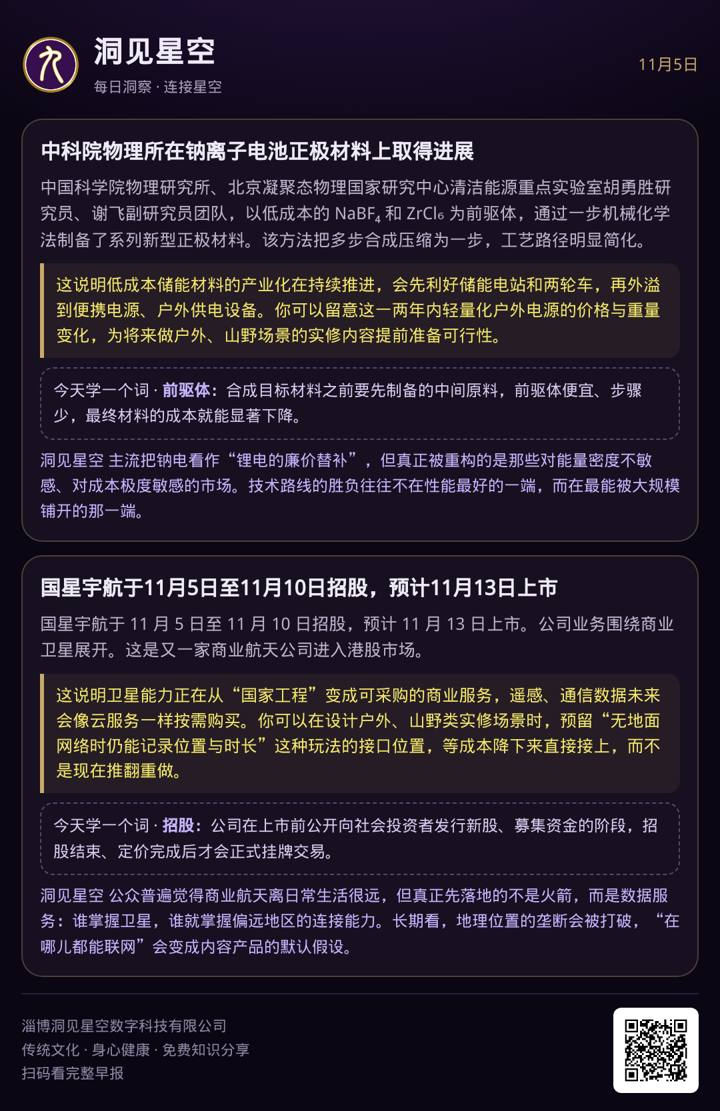
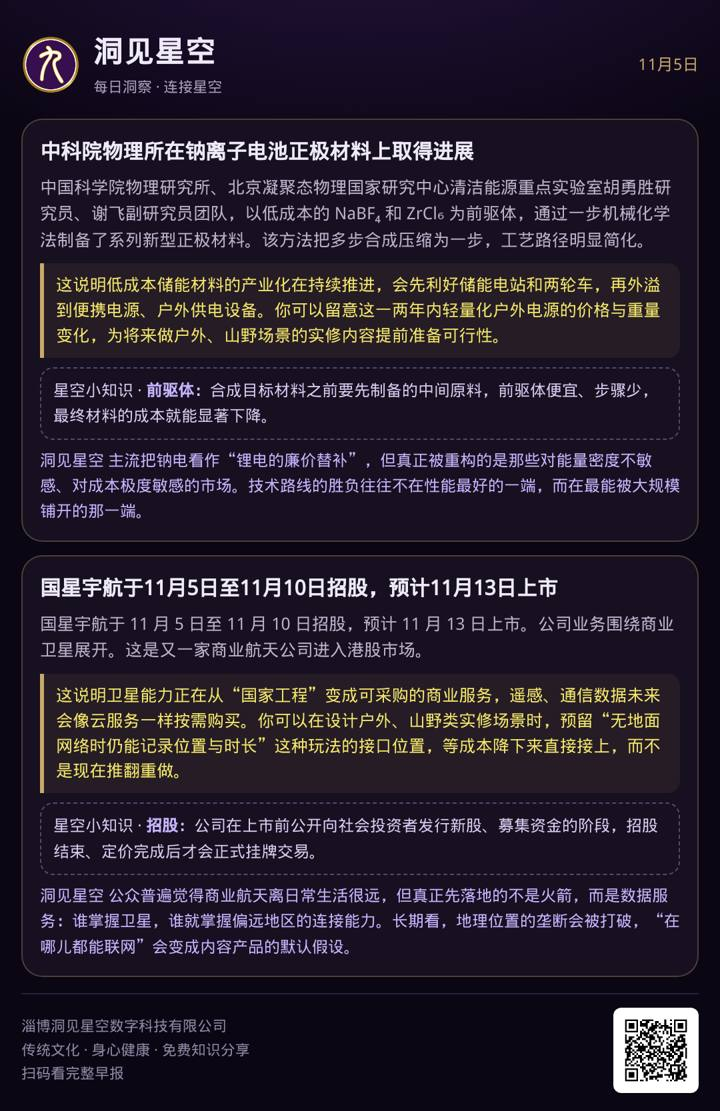
brief rename teach

Changed region(s): [[0.0611, 0.7345, 0.9167, 0.7957], [0.0611, 0.3366, 0.8861, 0.3978]]

diff --git a/2026-11-05.html b/2026-11-05.html
@@ -52,4 +52,4 @@ a{color:#b9a6ff;text-decoration:none}
 .teach{margin-top:10px;padding:10px 12px;border:1px dashed rgba(196,181,253,.35);border-radius:12px;font-size:13.5px;color:#d6ccf0}
 .teach b{color:var(--acc);font-weight:600}
 .foot{margin-top:44px;text-align:center;color:#5d5570;font-size:11px;letter-spacing:1.5px}
-</style></head><body><div class=grid></div><div class=wrap><div class=kicker>DONGJIAN · MORNING</div><div class=head><img class=logo src='logo.png' alt=logo><h1>洞见星空早报</h1></div><div class=sub>2026 年 11 月 5 日 · 星期四</div><h2>世界资讯 · 10</h2><div class=card><h3>OpenAI总裁称做好明年上市准备</h3><p>据新浪财经报道，OpenAI 总裁公开表示公司已经为明年上市做好准备。这是 OpenAI 高层首次就上市时间表给出相对明确的表态。此前 OpenAI 长期以非营利母体加有限营利子公司的架构运作，估值主要靠一级市场融资推高。消息出炉当日，市场对 AI 板块的定价讨论明显升温。</p><div class=why>大模型头部公司进入上市节奏，说明这一轮竞争已经从“谁的模型更强”转向“谁能把算力变成可持续的季度收入”，企业级合约会成为争夺重点。对单人创业者来说，面向个人的轻量工具会越来越标准化、越来越容易被替换，你该押注的是模型替代不了的部分：具体功法的纠错、师承来源和学员关系。</div><div class=teach>今天学一个词 · <b>IPO</b>：公司第一次把股票卖给公众，之后要在交易所挂牌、按季度公开财务数据。上市意味着它要对股东负责，而不只是对创始人和投资机构负责。</div><div class=insight><b>洞察</b> 主流叙事把头部 AI 公司上市当成泡沫见顶的信号，但更可能的长期含义是：AI 行业的定价权从“讲故事的一级市场”转移到“看财报的二级市场”，产品会更快涨价、更快收紧免费额度、更偏向能付得起钱的企业客户。个体创业者要习惯“工具条款半年一变”的常态。</div><div class=chips><a class='chip acc' href='https://finance.sina.com.cn/stock/usstock/c/2026-11-05/doc-inixryty5644886.shtml'>新浪财经</a></div></div><div class=card><h3>高盛称美国中期选举“蓝色海啸”将对人工智能监管产生重大影响</h3><p>高盛发布观点称，美国中期选举中出现的“蓝色海啸”将对人工智能监管走向产生重大影响。所谓蓝色海啸，指民主党在选举中获得压倒性优势。高盛认为立法与监管口径的变化会直接改变 AI 公司的合规成本与业务边界。市场正在重新评估监管风险在 AI 板块中的权重。</p><div class=why>美国监管口径趋严，会同时抬高两件事的价值：一是开源模型与本地部署方案，二是“可审计、可解释”的 AI 产品。你可以优先选能在本地或国内云上跑的工具链，把关键流程留一份不依赖单一海外服务的备份路径。</div><div class=teach>今天学一个词 · <b>蓝色海啸</b>：美国政治里蓝色代表民主党、红色代表共和党。“蓝色海啸”是媒体说法，指民主党在一场选举里赢得幅度大到像海啸一样。</div><div class=insight><b>洞察</b> 多数人默认“监管等于利空 AI”，但历史上强监管往往抬高合规门槛、利好大厂、挤出小玩家，同时把开源生态推到台前。真正的长期变化不是 AI 变慢，而是 AI 的权力结构更集中、合规本身变成一门生意。</div><div class=chips><a class='chip acc' href='https://finance.sina.com.cn/stock/usstock/c/2026-11-05/doc-inixryuh6202664.shtml'>新浪财经</a></div></div><div class=card><h3>全球首款全尺寸超仿生机器人亮相：售价16.98万，模样可定制</h3><p>新浪科技报道，全球首款全尺寸超仿生机器人亮相，售价 16.98 万元，外观模样可以定制。产品主打拟人外形与个性化形象，而非工业作业能力。这一价位把它放在商用展陈和高端陪伴的市场区间。</p><div class=why>这说明“形象、动作、语音脚本”的可定制内容正在成为机器人产品的卖点，而这类内容目前极度稀缺。你可以把自己的功法动作拆成标准的“动作包、讲解脚本、口令音频”，做成可授权给硬件厂商的内容模块，这是一条与录课卖课完全不同的收入路径。</div><div class=teach>今天学一个词 · <b>超仿生</b>：指外观、皮肤质感、面部表情对真人的模仿程度非常高，站远了看几乎分不出真假，和“能干活”是两码事。</div><div class=insight><b>洞察</b> 主流说法是“人形机器人即将走进家庭”，但 16.98 万的定价和展示型定位说明，短期内它更像展陈道具和 IP 载体。真正先起来的不是机器人干活，而是机器人“扮演谁”，也就是内容授权与形象授权。</div><div class=chips><a class='chip acc' href='https://finance.sina.com.cn/jjxw/2026-11-04/doc-inixqnsv7997130.shtml'>新浪科技</a></div></div><div class=card><h3>河北出台一揽子措施支持OPC创新发展</h3><p>中新网 11 月 5 日报道，河北出台一揽子措施支持 OPC 创新发展。OPC 即“一人公司”，指由一个自然人出资设立的公司形态。这是地方层面对单人创业主体给出的专项政策支持信号。</p><div class=why>这说明单人公司正在被当成一种正式的市场主体来对待，而不是过渡形态，围绕它的注册、财税、法务服务会形成一条新供应链。你可以去核对淄博本地以及河北这类先行地区对一人公司的具体扶持条款，看有没有内容产业、文创方向的申报窗口，这属于一次性查证、长期受益的动作。</div><div class=teach>今天学一个词 · <b>OPC（一人公司）</b>：One Person Company 的缩写，指股东只有一个自然人的公司。它和个体户不同，是有限责任公司，出了事一般只以出资额为限承担责任。</div><div class=insight><b>洞察</b> 主流的创业叙事仍然默认“招人、融资、做大”，但政策口径已经把一人公司纳入扶持对象，意味着未来几年会出现一批专门服务个体的基础设施：代记账、合规模板、AI 法务。真正被重构的不是创业门槛，而是“公司”这个概念本身。</div><div class=chips><a class='chip acc' href='https://www.chinanews.com.cn/cj/2026/11-05/10726400.shtml'>中新网财经</a></div></div><div class=card><h3>达成最高70亿美元对外授权，中生制药刷新BD交易记录</h3><p>新浪科技报道，中国生物制药达成最高 70 亿美元的对外授权交易，刷新国内 BD 交易纪录。交易对手方为勃林格殷格翰，双方在肿瘤领域强化战略合作。同日中国生物制药港股早盘涨超 5%。</p><div class=why>这说明“把一套方法或配方打包授权给更有渠道的一方”这条路在中国已经跑通，而且能卖出远高于零售的价格。传统文化领域同样可以试：把自己的功法体系、纠偏标准、教学大纲整理成可授权的 IP 包，谈给健身房、康养机构、内容平台，而不是只靠自己一节一节课去卖。</div><div class=teach>今天学一个词 · <b>BD / License-out</b>：BD 是商务拓展，License-out 指把自己产品的海外或特定权益授权给别人开发销售，收一笔首付款，之后按进展再收里程碑款和分成。</div><div class=insight><b>洞察</b> 媒体喜欢用 70 亿美元这样的标题数字，但对外授权通常是“首付款加里程碑付款”的结构，真正落袋的钱和标题差一个数量级。长期看，中国资产的定价权正在从“自己卖产品”转向“把权益卖给全球渠道”，这个逻辑对所有内容型 IP 都成立。</div><div class=chips><a class='chip acc' href='https://finance.sina.com.cn/tech/shenji/2026-11-05/doc-inixrumy8918859.shtml'>新浪科技</a></div></div><div class=card><h3>圈粉全球！国风国潮服饰海外热销，老外专程来抢货</h3><p>中新网报道，国风国潮服饰在海外热销，有外国消费者专程来中国抢货。报道把这一现象与近期海外的“China Haul”热潮并列观察。国潮服饰正在成为出口中的新增长品类之一。</p><div class=why>这说明海外对中国传统美学的需求，集中在“可穿戴、可拍照、可传播”的形态上，而不是长篇讲解。你可以顺势把功法内容往“视觉化、无语言门槛”的方向改：一个动作、一身衣服、一个场景，十几秒就能看懂，先解决传播再谈付费。</div><div class=teach>今天学一个词 · <b>国潮</b>：把中国传统纹样、形制、色彩做成现代商品和设计的风潮，核心卖点不是“古老”，而是“古老元素加现代使用场景”。</div><div class=insight><b>洞察</b> 大家习惯认为文化出海要靠大制作、靠官方渠道，但真正先跑出去的是衣服、饰品、器物这些可以被穿在身上、拍进照片的符号。符号的生命周期很短，靠单品爆红不可持续，能长期立住的是持续输出内容的那个人，而不是那一件衣服。</div><div class=chips><a class='chip acc' href='https://www.chinanews.com.cn/cj/2026/11-05/10726436.shtml'>中新网财经</a></div></div><div class=card><h3>“China Haul”背后，藏着怎样的中国？</h3><p>中新网刊文《“China Haul”背后，藏着怎样的中国？》，讨论海外消费者大量采购中国商品并在社交平台晒单的现象。文章认为这股热潮背后不只是价格，还有中国供应链与生活方式内容的同步输出。海外年轻人正把中国商品当成一种生活方式的符号。</p><div class=why>这说明海外平台对“中国人真实日常生活”的内容有持续需求，而且是生活流而不是教学流。你可以把练功、节气起居、饮食这类日常拍成系列短片，用生活记录的方式触达海外受众，比一上来就讲功法原理更容易被看懂和转发。</div><div class=teach>今天学一个词 · <b>Haul</b>：海外社交平台上的“扫货、开箱”视频类型，博主展示自己一次买了哪些东西、花了多少钱、值不值，常见于美妆和服饰。</div><div class=insight><b>洞察</b> 主流解读把 China Haul 归因于“性价比”，但性价比买不出狂热。真正被消费的是一整套生活想象，这也意味着它的天花板取决于内容能否持续供给。谁能在海外稳定输出“中国人怎么过日子”，谁就掌握了这个符号的解释权。</div><div class=chips><a class='chip acc' href='https://www.chinanews.com.cn/cj/2026/11-05/10726442.shtml'>中新网财经</a></div></div><div class=card><h3>QuestMobile报告：9月红果免费短剧月活跃用户规模达4.3亿，同比增长81.8%</h3><p>QuestMobile 报告显示，9 月红果免费短剧月活跃用户规模达到 4.3 亿，同比增长 81.8%。免费短剧成为过去一年增长最快的内容形态之一。同一份报告显示，腾讯以 12.8 亿用户蝉联中国互联网第一，绿泡泡月活破 1.5 亿。</p><div class=why>这说明用户对“一分钟内给出情绪或结果”的耐受度已经成为默认标准，超过三分钟还没有钩子的内容会被直接划走。你可以把 34 天挑战的每一天做成 60 秒竖屏单元：一个动作加一句话，用短剧的节奏承载功法内容，而不是依赖长音频。</div><div class=teach>今天学一个词 · <b>MAU（月活跃用户）</b>：一个月内打开过这个产品至少一次的用户数，用来衡量真实有多少人在用，比累计注册用户更能说明问题。</div><div class=insight><b>洞察</b> 很多人把短剧当成下沉娱乐，但 4.3 亿意味着它已经重塑了全年龄段的注意力节奏。长期看，所有内容都要先通过“三秒留人”这一关，教育类、修行类内容也不例外。真正的稀缺不是深度，而是能把深度压缩进短时长的能力。</div><div class=chips><a class='chip acc' href='https://finance.sina.com.cn/tech/it/2026-11-04/doc-inixqnsv7985057.shtml'>新浪科技</a></div></div><div class=card><h3>中科院物理所在钠离子电池正极材料上取得进展</h3><p>中国科学院物理研究所、北京凝聚态物理国家研究中心清洁能源重点实验室胡勇胜研究员、谢飞副研究员团队，以低成本的 NaBF₄ 和 ZrCl₆ 为前驱体，通过一步机械化学法制备了系列新型正极材料。该方法把多步合成压缩为一步，工艺路径明显简化。</p><div class=why>这说明低成本储能材料的产业化在持续推进，会先利好储能电站和两轮车，再外溢到便携电源、户外供电设备。你可以留意这一两年内轻量化户外电源的价格与重量变化，为将来做户外、山野场景的实修内容提前准备可行性。</div><div class=teach>今天学一个词 · <b>前驱体</b>：合成目标材料之前要先制备的中间原料，前驱体便宜、步骤少，最终材料的成本就能显著下降。</div><div class=insight><b>洞察</b> 主流把钠电看作“锂电的廉价替补”，但真正被重构的是那些对能量密度不敏感、对成本极度敏感的市场。技术路线的胜负往往不在性能最好的一端，而在最能被大规模铺开的那一端。</div><div class=chips><a class='chip acc' href='https://wallstreetcn.com/livenews/3194670'>华尔街见闻</a></div></div><div class=card><h3>国星宇航于11月5日至11月10日招股，预计11月13日上市</h3><p>国星宇航于 11 月 5 日至 11 月 10 日招股，预计 11 月 13 日上市。公司业务围绕商业卫星展开。这是又一家商业航天公司进入港股市场。</p><div class=why>这说明卫星能力正在从“国家工程”变成可采购的商业服务，遥感、通信数据未来会像云服务一样按需购买。你可以在设计户外、山野类实修场景时，预留“无地面网络时仍能记录位置与时长”这种玩法的接口位置，等成本降下来直接接上，而不是现在推翻重做。</div><div class=teach>今天学一个词 · <b>招股</b>：公司在上市前公开向社会投资者发行新股、募集资金的阶段，招股结束、定价完成后才会正式挂牌交易。</div><div class=insight><b>洞察</b> 公众普遍觉得商业航天离日常生活很远，但真正先落地的不是火箭，而是数据服务：谁掌握卫星，谁就掌握偏远地区的连接能力。长期看，地理位置的垄断会被打破，“在哪儿都能联网”会变成内容产品的默认假设。</div><div class=chips><a class='chip acc' href='https://finance.sina.com.cn/stock/hkstock/ggipo/2026-11-05/doc-inixrunh9650279.shtml'>新浪财经</a></div></div><h2>科技 · 9</h2><div class=card><h3>灵光2.0上线一周托管超116万项事务，用户突破2000万</h3><p>新浪科技报道，灵光 2.0 上线一周托管事务超过 116 万项，用户突破 2000 万。所谓“托管事务”，指用户把原本要自己动手做的事交给 AI 代理去执行。一周之内就沉淀出百万量级的真实执行数据。</p><div class=why>这说明通用型 AI 助手已经在大量承担“提醒、记录、统计、整理”这类事务性工作，这类功能会迅速变成免费标配。你要把力气放在 AI 判断不了的地方：动作做得对不对、身体反馈是否正常、什么时候该减量，这些才是需要专业经验的部分。</div><div class=teach>今天学一个词 · <b>托管事务</b>：不只是让 AI 给建议，而是把整件事交给它去执行，比如自动改期、自动填表、自动跟进，做完再给你结果。</div><div class=insight><b>洞察</b> 大多数人把 Agent 理解为“更聪明的聊天框”，但托管事务的量级说明竞争点已经变成“能不能可靠地把事做完”。可靠性的背后是权限、可回溯和出错兜底，这三样在未来一年会成为 AI 产品真正的分水岭。</div><div class=chips><a class='chip acc' href='https://finance.sina.com.cn/tech/shenji/2026-11-05/doc-inixryue9568010.shtml'>新浪科技</a></div></div><div class=card><h3>天数智芯天垓300真机实测：性能赶超国际主流GPU，超节点有效Token成本直降40%</h3><p>新浪科技报道，天数智芯天垓 300 完成真机实测，性能赶超国际主流 GPU，采用超节点方案后有效 Token 成本直降 40%。这是国产算力在推理侧的一次公开对比测试。测试重点是集群整体的有效吞吐，而不只是单卡跑分。</p><div class=why>这说明推理算力正在快速变便宜，实时动作识别、姿态比对这类重计算能力会在一年内进入可商用区间。你现在最该做的是攒数据：把标准动作的正面、侧面、常见错误姿势拍成结构化素材，等能力便宜了直接训练，而不是等工具成熟了再补素材。</div><div class=teach>今天学一个词 · <b>超节点</b>：把成百上千张加速卡用高速网络连成一台“超级电脑”来用，减少卡与卡之间的等待，整体效率比单卡堆叠高很多。</div><div class=insight><b>洞察</b> 主流把国产芯片的叙事锁定在“替代”，但超节点这类集群思路说明，追赶路径可能不是单卡追平，而是用系统架构换单点差距。如果这条路走通，算力的竞争会从“谁的芯片强”变成“谁的网络和调度强”。</div><div class=chips><a class='chip acc' href='https://finance.sina.com.cn/tech/it/2026-11-04/doc-inixqsyn9272244.shtml'>新浪科技</a></div></div><div class=card><h3>闲鱼CEO谌伟业：Agent创造新模式新体验，150万用户获得持续稳定收入</h3><p>闲鱼 CEO 谌伟业表示，Agent 创造了新的模式和新的体验，平台上有 150 万用户获得了持续稳定收入。这一数字把 AI 代理能力与个体创收直接挂钩。平台侧的表述强调“新体验”，而非单纯的效率工具。</p><div class=why>这说明“一技之长加 AI 代运营”已经能在平台上换成稳定现金流，门槛不在技术而在交付标准。你可以把功法教学拆成可单次交付的小服务——纠正一个动作、点评一次练习记录、给一份三天的调整建议——挂到有 Agent 撮合能力的平台上试水，比先做完整课程更快验证需求。</div><div class=teach>今天学一个词 · <b>Agent（智能体）</b>：能自己拆解任务、调用工具、一步步把事做完的 AI，不只是回答问题，还会主动去执行和跟进。</div><div class=insight><b>洞察</b> “AI 让人失业”是最流行的说法，但平台数据指向相反方向：AI 降低的是服务交付的门槛，让原本只能靠机构提供的专业服务，变成个人可以接单的小颗粒商品。长期看，被挤压的不是个体，而是中间层的中介机构。</div><div class=chips><a class='chip acc' href='https://finance.sina.com.cn/tech/it/2026-11-04/doc-inixqsyv0040255.shtml'>新浪科技</a></div></div><div class=card><h3>Sand.ai宣布完成2亿美元A+轮融资，10个月累计融资3亿美元</h3><p>Sand.ai 宣布完成 2 亿美元 A+ 轮融资，这是公司 2026 年内完成的第三轮融资。10 个月内累计融资额达到 3 亿美元，本轮融资后正式跻身独角兽行列。融资节奏在当下的资本环境中相当少见。</p><div class=why>这说明视频生成赛道的钱还在密集下注，资本押注的不是“能生成视频”，而是“生成的结果能直接用于商业交付”，也就是一致性和可控性。你可以先不等工具成熟：用手工拍摄为主、AI 只做补帧和背景替换，保住内容的真实质感，等可控性上来了再扩大使用比例。</div><div class=teach>今天学一个词 · <b>独角兽</b>：估值超过 10 亿美元的未上市公司，通常是投资圈的通俗说法，并不代表公司已经盈利或上市。</div><div class=insight><b>洞察</b> 外界普遍认为 AI 视频的创业窗口已经关闭，但十个月三轮融资说明离“能用”还有明显距离，否则不需要这么多钱。真正的护城河不在模型，而在谁能定义“合格交付”的标准——分辨率、时长、还是叙事连贯性。</div><div class=chips><a class='chip acc' href='https://wallstreetcn.com/livenews/3194682'>华尔街见闻</a></div></div><div class=card><h3>Arm季度营收展望符合预期，数据中心业务助其抵御智能手机市场低迷</h3><p>Arm 给出的季度营收展望符合市场预期，数据中心业务帮助它抵御了智能手机市场的低迷。Arm 的商业模式是授权芯片架构，收入与客户芯片出货量挂钩。数据中心需求成为这一季度的重要支撑项。</p><div class=why>这说明算力扩张的重心已经从手机转向服务器，连只做架构授权的上游公司都在被 AI 服务器重新定价。你可以在产品设计上默认“联网加云端推理是常态”，把需要重算力的功能放在服务端，而不是逼着用户在手机上跑。</div><div class=teach>今天学一个词 · <b>IP授权</b>：公司不自己造芯片，而是把设计方案的使用权卖给芯片厂商，按出货量收授权费，属于“卖图纸”的生意。</div><div class=insight><b>洞察</b> 大家习惯性认为消费电子决定芯片公司的命运，但这一季的数据说明服务器侧的需求已经能对冲手机的下滑。长期看，芯片产业的景气周期会和“数据中心建设周期”绑得越来越紧，而不是和换机潮绑在一起。</div><div class=chips><a class='chip acc' href='https://finance.sina.com.cn/stock/usstock/c/2026-11-05/doc-inixrqea8945717.shtml'>新浪科技</a></div></div><div class=card><h3>国行苹果AI首批接入得物，11月4日开放测试</h3><p>国行苹果 AI 首批接入得物，于 11 月 4 日开放测试。这意味着 Apple Intelligence 在国内以与具体 App 合作的方式落地。系统级 AI 直接调用第三方应用的能力，成为这次测试的核心看点。</p><div class=why>这说明未来用户可能不再“打开某个 App”，而是直接对手机说一句话让系统去调。你要提前把核心内容做成可被系统读取的结构化数据——动作名称、标准时长、要点、禁忌——而不只是做给人看的页面，否则在系统级入口里根本没有你的位置。</div><div class=teach>今天学一个词 · <b>系统级AI</b>：手机操作系统自带的 AI，能直接调用各个 App 的功能来完成任务，用户不用自己一个个打开应用。</div><div class=insight><b>洞察</b> 大家把 AI 手机当作硬件升级，但真正的变化是入口迁移：从图标和搜索框，迁移到一句话指令。一旦入口变了，过去十年靠 App 图标和推送建立的用户习惯会大面积失效，受益的是内容结构化做得早的人。</div><div class=chips><a class='chip acc' href='https://finance.sina.com.cn/tech/it/2026-11-04/doc-inixqnsq9346336.shtml'>新浪科技</a></div></div><div class=card><h3>字节新规限制员工使用外部AI，知情人士回应</h3><p>新浪科技报道，字节跳动出台新规限制员工使用外部 AI 工具，知情人士对此作出回应。此前已有多家大型互联网公司对内外部 AI 工具的使用划出明确边界。争议焦点集中在内部数据是否会经由外部工具外流。</p><div class=why>这说明“数据不出域”正在从合规要求变成采购硬门槛，企业宁可牺牲一点效率也不愿冒数据外流的风险。你做内容时如果会接触用户的练习记录、身体反馈这类数据，提前把存储位置、使用范围、删除方式写清楚，将来和机构谈合作时这就是现成的加分项。</div><div class=teach>今天学一个词 · <b>数据不出域</b>：数据始终留在自己控制的服务器范围内，不会被传到第三方那里去处理，是企业和机构采购 AI 时最看重的条件之一。</div><div class=insight><b>洞察</b> 外界默认 AI 工具会越来越开放，但大厂的动作说明相反：模型能力越强，数据边界划得越死。长期看，AI 行业会分裂成“公网版”和“私有部署版”两个市场，后者更贵、更慢，但更稳。</div><div class=chips><a class='chip acc' href='https://finance.sina.com.cn/chanjing/gsnews/2026-11-04/doc-inixqxhk9235629.shtml'>新浪科技</a></div></div><div class=card><h3>Meta启动欧元债券首次发行，此前发行美元债筹集150亿美元</h3><p>Meta 启动欧元债券的首次发行，此前已通过美元债券筹集 150 亿美元。公司称募集资金用于一般公司用途。市场普遍将其与数据中心和 AI 基础设施的巨额投入联系起来。</p><div class=why>这说明连现金流最强的公司都在靠发债支撑 AI 基建，算力供给在未来两三年会持续过剩。你可以把“AI 能力越来越便宜、越来越普及”当作产品设计的前提，把成本和精力都放在内容质量与人的关系上，而不是押注某项 AI 功能带来的先发优势。</div><div class=teach>今天学一个词 · <b>资本开支（CapEx）</b>：企业花在买设备、建机房、铺网络这类长期资产上的钱，一次投入大、回本周期长，和日常运营开销不是一回事。</div><div class=insight><b>洞察</b> 主流叙事是“AI 投入靠巨头自有现金流撑着”，但债券市场的动作说明这一轮资本开支已经超出经营现金流能覆盖的节奏。用债务堆出来的算力，最终要用收入来还，这会逼着所有玩家在未来两年把 AI 从“炫技”变成“收费”。</div><div class=chips><a class='chip acc' href='https://finance.sina.com.cn/stock/usstock/c/2026-11-04/doc-inixqhks9393709.shtml'>新浪科技</a></div></div><div class=card><h3>李斌乌镇演讲：AI应该让人的工作更轻松更安全，而不是剥夺人类存在的意义</h3><p>蔚来李斌在乌镇峰会上表示，AI 应该让人的工作更轻松、更安全，而不是剥夺人类存在的意义。同日他还谈到，智能驾驶最大的意义不应是让出租车、网约车司机丢掉工作，而是解放司机精力、减少交通事故。这番表态把技术价值从效率转向了人的处境。</p><div class=why>这说明“技术为人服务”正在成为企业公开表达的主流话语，纯效率叙事已经遇到明显的舆论反弹。你做传统文化内容时，把“练完之后身体感受如何、睡得怎么样”作为核心衡量指标来讲，会比强调功能、强调 AI 加持更贴合当下用户的心理预期。</div><div class=teach>今天学一个词 · <b>智能驾驶</b>：车辆自己完成一部分或全部驾驶操作，按自动化程度分级，级别越高需要人接管的次数越少，但责任划分也越复杂。</div><div class=insight><b>洞察</b> 过去十年科技行业的默认叙事是“更快更省人”，企业家如今公开谈“意义”，说明市场教育已经撞上反弹。长期看，能卖出溢价的产品会从“帮你省时间”转向“帮你确认自己在做什么”，这对慢生意是利好。</div><div class=chips><a class='chip acc' href='https://finance.sina.com.cn/tech/it/2026-11-04/doc-inixqnss6118846.shtml'>新浪科技</a></div></div><h2>开源项目 · 10</h2><div class=card><div class=repo><div><div class=n><a href='https://github.com/Renhuai123/ziwei-doushu'>Renhuai123/ziwei-doushu</a></div><div class=d>紫微斗数开源排盘引擎，基于倪海厦《天纪》体系，含完整排盘算法、四化系统、格局知识库与古籍原文数据。</div></div><div class=s>★ 15820</div></div><div class=repo><div><div class=n><a href='https://github.com/SylarLong/iztro'>SylarLong/iztro</a></div><div class=d>轻量级紫微斗数排盘工具库，供开发者在自己的项目里直接调用。</div></div><div class=s>★ 4346</div></div><div class=repo><div><div class=n><a href='https://github.com/jangviktor-web/nihaixia'>jangviktor-web/nihaixia</a></div><div class=d>倪海厦视角的中医 Agent Skill，基于其教学资料蒸馏伤寒论、金匮要略、黄帝内经、神农本草经、针灸篇等，含六经辨证、八纲辨证等思维框架。</div></div><div class=s>★ 3995</div></div><div class=repo><div><div class=n><a href='https://github.com/jinchenma94/bazi-skill'>jinchenma94/bazi-skill</a></div><div class=d>四柱八字命理分析的 AI Skill 实现，用 Python 写成。</div></div><div class=s>★ 3800</div></div><div class=repo><div><div class=n><a href='https://github.com/DestinyLinker/MingLi-Bench'>DestinyLinker/MingLi-Bench</a></div><div class=d>评估大模型在中国传统命理（八字、紫微）上表现的基准测试集。</div></div><div class=s>★ 2552</div></div><div class=repo><div><div class=n><a href='https://github.com/6tail/lunar-javascript'>6tail/lunar-javascript</a></div><div class=d>日历与历法工具库，支持公历、农历、佛历、道历，以及节气、干支、生肖、每日宜忌等。</div></div><div class=s>★ 1736</div></div><div class=repo><div><div class=n><a href='https://github.com/FANzR-arch/Numerologist_skills'>FANzR-arch/Numerologist_skills</a></div><div class=d>用工程框架约束大模型在中国命理领域幻觉的项目，作者自述是“给赛博半仙戴上紧箍咒”。</div></div><div class=s>★ 1567</div></div></div><div class=card><div class=repo><div class=n style='color:#c9a86a'>热门 · 不限分类</div></div><div class=repo><div><div class=n><a href='https://github.com/cirosantilli/x86-bare-metal-examples'>cirosantilli/x86-bare-metal-examples</a></div><div class=d>几十个最小可运行的操作系统示例，用来学习 x86 系统编程，每个例子都尽量精简可跑。</div></div><div class=s>★ 5434</div></div><div class=repo><div><div class=n><a href='https://github.com/gege-circle/.github'>gege-circle/.github</a></div><div class=d>一个以仓库为载体的多话题交流社区，讨论动漫、游戏、科技、人文、生活等。</div></div><div class=s>★ 2079</div></div><div class=repo><div><div class=n><a href='https://github.com/OCNYang/QBox'>OCNYang/QBox</a></div><div class=d>一个整合新闻、笑话、生活小工具的多模块 Android 示例应用，展示 RxJava、Retrofit、Glide 等技术的组合用法。</div></div><div class=s>★ 1383</div></div></div><div class=foot>洞见星空 · 仅供学习交流，不构成投资建议</div></div></body></html>
+</style></head><body><div class=grid></div><div class=wrap><div class=kicker>DONGJIAN · MORNING</div><div class=head><img class=logo src='logo.png' alt=logo><h1>洞见星空早报</h1></div><div class=sub>2026 年 11 月 5 日 · 星期四</div><h2>世界资讯 · 10</h2><div class=card><h3>OpenAI总裁称做好明年上市准备</h3><p>据新浪财经报道，OpenAI 总裁公开表示公司已经为明年上市做好准备。这是 OpenAI 高层首次就上市时间表给出相对明确的表态。此前 OpenAI 长期以非营利母体加有限营利子公司的架构运作，估值主要靠一级市场融资推高。消息出炉当日，市场对 AI 板块的定价讨论明显升温。</p><div class=why>大模型头部公司进入上市节奏，说明这一轮竞争已经从“谁的模型更强”转向“谁能把算力变成可持续的季度收入”，企业级合约会成为争夺重点。对单人创业者来说，面向个人的轻量工具会越来越标准化、越来越容易被替换，你该押注的是模型替代不了的部分：具体功法的纠错、师承来源和学员关系。</div><div class=teach>星空小知识 · <b>IPO</b>：公司第一次把股票卖给公众，之后要在交易所挂牌、按季度公开财务数据。上市意味着它要对股东负责，而不只是对创始人和投资机构负责。</div><div class=insight><b>洞察</b> 主流叙事把头部 AI 公司上市当成泡沫见顶的信号，但更可能的长期含义是：AI 行业的定价权从“讲故事的一级市场”转移到“看财报的二级市场”，产品会更快涨价、更快收紧免费额度、更偏向能付得起钱的企业客户。个体创业者要习惯“工具条款半年一变”的常态。</div><div class=chips><a class='chip acc' href='https://finance.sina.com.cn/stock/usstock/c/2026-11-05/doc-inixryty5644886.shtml'>新浪财经</a></div></div><div class=card><h3>高盛称美国中期选举“蓝色海啸”将对人工智能监管产生重大影响</h3><p>高盛发布观点称，美国中期选举中出现的“蓝色海啸”将对人工智能监管走向产生重大影响。所谓蓝色海啸，指民主党在选举中获得压倒性优势。高盛认为立法与监管口径的变化会直接改变 AI 公司的合规成本与业务边界。市场正在重新评估监管风险在 AI 板块中的权重。</p><div class=why>美国监管口径趋严，会同时抬高两件事的价值：一是开源模型与本地部署方案，二是“可审计、可解释”的 AI 产品。你可以优先选能在本地或国内云上跑的工具链，把关键流程留一份不依赖单一海外服务的备份路径。</div><div class=teach>星空小知识 · <b>蓝色海啸</b>：美国政治里蓝色代表民主党、红色代表共和党。“蓝色海啸”是媒体说法，指民主党在一场选举里赢得幅度大到像海啸一样。</div><div class=insight><b>洞察</b> 多数人默认“监管等于利空 AI”，但历史上强监管往往抬高合规门槛、利好大厂、挤出小玩家，同时把开源生态推到台前。真正的长期变化不是 AI 变慢，而是 AI 的权力结构更集中、合规本身变成一门生意。</div><div class=chips><a class='chip acc' href='https://finance.sina.com.cn/stock/usstock/c/2026-11-05/doc-inixryuh6202664.shtml'>新浪财经</a></div></div><div class=card><h3>全球首款全尺寸超仿生机器人亮相：售价16.98万，模样可定制</h3><p>新浪科技报道，全球首款全尺寸超仿生机器人亮相，售价 16.98 万元，外观模样可以定制。产品主打拟人外形与个性化形象，而非工业作业能力。这一价位把它放在商用展陈和高端陪伴的市场区间。</p><div class=why>这说明“形象、动作、语音脚本”的可定制内容正在成为机器人产品的卖点，而这类内容目前极度稀缺。你可以把自己的功法动作拆成标准的“动作包、讲解脚本、口令音频”，做成可授权给硬件厂商的内容模块，这是一条与录课卖课完全不同的收入路径。</div><div class=teach>星空小知识 · <b>超仿生</b>：指外观、皮肤质感、面部表情对真人的模仿程度非常高，站远了看几乎分不出真假，和“能干活”是两码事。</div><div class=insight><b>洞察</b> 主流说法是“人形机器人即将走进家庭”，但 16.98 万的定价和展示型定位说明，短期内它更像展陈道具和 IP 载体。真正先起来的不是机器人干活，而是机器人“扮演谁”，也就是内容授权与形象授权。</div><div class=chips><a class='chip acc' href='https://finance.sina.com.cn/jjxw/2026-11-04/doc-inixqnsv7997130.shtml'>新浪科技</a></div></div><div class=card><h3>河北出台一揽子措施支持OPC创新发展</h3><p>中新网 11 月 5 日报道，河北出台一揽子措施支持 OPC 创新发展。OPC 即“一人公司”，指由一个自然人出资设立的公司形态。这是地方层面对单人创业主体给出的专项政策支持信号。</p><div class=why>这说明单人公司正在被当成一种正式的市场主体来对待，而不是过渡形态，围绕它的注册、财税、法务服务会形成一条新供应链。你可以去核对淄博本地以及河北这类先行地区对一人公司的具体扶持条款，看有没有内容产业、文创方向的申报窗口，这属于一次性查证、长期受益的动作。</div><div class=teach>星空小知识 · <b>OPC（一人公司）</b>：One Person Company 的缩写，指股东只有一个自然人的公司。它和个体户不同，是有限责任公司，出了事一般只以出资额为限承担责任。</div><div class=insight><b>洞察</b> 主流的创业叙事仍然默认“招人、融资、做大”，但政策口径已经把一人公司纳入扶持对象，意味着未来几年会出现一批专门服务个体的基础设施：代记账、合规模板、AI 法务。真正被重构的不是创业门槛，而是“公司”这个概念本身。</div><div class=chips><a class='chip acc' href='https://www.chinanews.com.cn/cj/2026/11-05/10726400.shtml'>中新网财经</a></div></div><div class=card><h3>达成最高70亿美元对外授权，中生制药刷新BD交易记录</h3><p>新浪科技报道，中国生物制药达成最高 70 亿美元的对外授权交易，刷新国内 BD 交易纪录。交易对手方为勃林格殷格翰，双方在肿瘤领域强化战略合作。同日中国生物制药港股早盘涨超 5%。</p><div class=why>这说明“把一套方法或配方打包授权给更有渠道的一方”这条路在中国已经跑通，而且能卖出远高于零售的价格。传统文化领域同样可以试：把自己的功法体系、纠偏标准、教学大纲整理成可授权的 IP 包，谈给健身房、康养机构、内容平台，而不是只靠自己一节一节课去卖。</div><div class=teach>星空小知识 · <b>BD / License-out</b>：BD 是商务拓展，License-out 指把自己产品的海外或特定权益授权给别人开发销售，收一笔首付款，之后按进展再收里程碑款和分成。</div><div class=insight><b>洞察</b> 媒体喜欢用 70 亿美元这样的标题数字，但对外授权通常是“首付款加里程碑付款”的结构，真正落袋的钱和标题差一个数量级。长期看，中国资产的定价权正在从“自己卖产品”转向“把权益卖给全球渠道”，这个逻辑对所有内容型 IP 都成立。</div><div class=chips><a class='chip acc' href='https://finance.sina.com.cn/tech/shenji/2026-11-05/doc-inixrumy8918859.shtml'>新浪科技</a></div></div><div class=card><h3>圈粉全球！国风国潮服饰海外热销，老外专程来抢货</h3><p>中新网报道，国风国潮服饰在海外热销，有外国消费者专程来中国抢货。报道把这一现象与近期海外的“China Haul”热潮并列观察。国潮服饰正在成为出口中的新增长品类之一。</p><div class=why>这说明海外对中国传统美学的需求，集中在“可穿戴、可拍照、可传播”的形态上，而不是长篇讲解。你可以顺势把功法内容往“视觉化、无语言门槛”的方向改：一个动作、一身衣服、一个场景，十几秒就能看懂，先解决传播再谈付费。</div><div class=teach>星空小知识 · <b>国潮</b>：把中国传统纹样、形制、色彩做成现代商品和设计的风潮，核心卖点不是“古老”，而是“古老元素加现代使用场景”。</div><div class=insight><b>洞察</b> 大家习惯认为文化出海要靠大制作、靠官方渠道，但真正先跑出去的是衣服、饰品、器物这些可以被穿在身上、拍进照片的符号。符号的生命周期很短，靠单品爆红不可持续，能长期立住的是持续输出内容的那个人，而不是那一件衣服。</div><div class=chips><a class='chip acc' href='https://www.chinanews.com.cn/cj/2026/11-05/10726436.shtml'>中新网财经</a></div></div><div class=card><h3>“China Haul”背后，藏着怎样的中国？</h3><p>中新网刊文《“China Haul”背后，藏着怎样的中国？》，讨论海外消费者大量采购中国商品并在社交平台晒单的现象。文章认为这股热潮背后不只是价格，还有中国供应链与生活方式内容的同步输出。海外年轻人正把中国商品当成一种生活方式的符号。</p><div class=why>这说明海外平台对“中国人真实日常生活”的内容有持续需求，而且是生活流而不是教学流。你可以把练功、节气起居、饮食这类日常拍成系列短片，用生活记录的方式触达海外受众，比一上来就讲功法原理更容易被看懂和转发。</div><div class=teach>星空小知识 · <b>Haul</b>：海外社交平台上的“扫货、开箱”视频类型，博主展示自己一次买了哪些东西、花了多少钱、值不值，常见于美妆和服饰。</div><div class=insight><b>洞察</b> 主流解读把 China Haul 归因于“性价比”，但性价比买不出狂热。真正被消费的是一整套生活想象，这也意味着它的天花板取决于内容能否持续供给。谁能在海外稳定输出“中国人怎么过日子”，谁就掌握了这个符号的解释权。</div><div class=chips><a class='chip acc' href='https://www.chinanews.com.cn/cj/2026/11-05/10726442.shtml'>中新网财经</a></div></div><div class=card><h3>QuestMobile报告：9月红果免费短剧月活跃用户规模达4.3亿，同比增长81.8%</h3><p>QuestMobile 报告显示，9 月红果免费短剧月活跃用户规模达到 4.3 亿，同比增长 81.8%。免费短剧成为过去一年增长最快的内容形态之一。同一份报告显示，腾讯以 12.8 亿用户蝉联中国互联网第一，绿泡泡月活破 1.5 亿。</p><div class=why>这说明用户对“一分钟内给出情绪或结果”的耐受度已经成为默认标准，超过三分钟还没有钩子的内容会被直接划走。你可以把 34 天挑战的每一天做成 60 秒竖屏单元：一个动作加一句话，用短剧的节奏承载功法内容，而不是依赖长音频。</div><div class=teach>星空小知识 · <b>MAU（月活跃用户）</b>：一个月内打开过这个产品至少一次的用户数，用来衡量真实有多少人在用，比累计注册用户更能说明问题。</div><div class=insight><b>洞察</b> 很多人把短剧当成下沉娱乐，但 4.3 亿意味着它已经重塑了全年龄段的注意力节奏。长期看，所有内容都要先通过“三秒留人”这一关，教育类、修行类内容也不例外。真正的稀缺不是深度，而是能把深度压缩进短时长的能力。</div><div class=chips><a class='chip acc' href='https://finance.sina.com.cn/tech/it/2026-11-04/doc-inixqnsv7985057.shtml'>新浪科技</a></div></div><div class=card><h3>中科院物理所在钠离子电池正极材料上取得进展</h3><p>中国科学院物理研究所、北京凝聚态物理国家研究中心清洁能源重点实验室胡勇胜研究员、谢飞副研究员团队，以低成本的 NaBF₄ 和 ZrCl₆ 为前驱体，通过一步机械化学法制备了系列新型正极材料。该方法把多步合成压缩为一步，工艺路径明显简化。</p><div class=why>这说明低成本储能材料的产业化在持续推进，会先利好储能电站和两轮车，再外溢到便携电源、户外供电设备。你可以留意这一两年内轻量化户外电源的价格与重量变化，为将来做户外、山野场景的实修内容提前准备可行性。</div><div class=teach>星空小知识 · <b>前驱体</b>：合成目标材料之前要先制备的中间原料，前驱体便宜、步骤少，最终材料的成本就能显著下降。</div><div class=insight><b>洞察</b> 主流把钠电看作“锂电的廉价替补”，但真正被重构的是那些对能量密度不敏感、对成本极度敏感的市场。技术路线的胜负往往不在性能最好的一端，而在最能被大规模铺开的那一端。</div><div class=chips><a class='chip acc' href='https://wallstreetcn.com/livenews/3194670'>华尔街见闻</a></div></div><div class=card><h3>国星宇航于11月5日至11月10日招股，预计11月13日上市</h3><p>国星宇航于 11 月 5 日至 11 月 10 日招股，预计 11 月 13 日上市。公司业务围绕商业卫星展开。这是又一家商业航天公司进入港股市场。</p><div class=why>这说明卫星能力正在从“国家工程”变成可采购的商业服务，遥感、通信数据未来会像云服务一样按需购买。你可以在设计户外、山野类实修场景时，预留“无地面网络时仍能记录位置与时长”这种玩法的接口位置，等成本降下来直接接上，而不是现在推翻重做。</div><div class=teach>星空小知识 · <b>招股</b>：公司在上市前公开向社会投资者发行新股、募集资金的阶段，招股结束、定价完成后才会正式挂牌交易。</div><div class=insight><b>洞察</b> 公众普遍觉得商业航天离日常生活很远，但真正先落地的不是火箭，而是数据服务：谁掌握卫星，谁就掌握偏远地区的连接能力。长期看，地理位置的垄断会被打破，“在哪儿都能联网”会变成内容产品的默认假设。</div><div class=chips><a class='chip acc' href='https://finance.sina.com.cn/stock/hkstock/ggipo/2026-11-05/doc-inixrunh9650279.shtml'>新浪财经</a></div></div><h2>科技 · 9</h2><div class=card><h3>灵光2.0上线一周托管超116万项事务，用户突破2000万</h3><p>新浪科技报道，灵光 2.0 上线一周托管事务超过 116 万项，用户突破 2000 万。所谓“托管事务”，指用户把原本要自己动手做的事交给 AI 代理去执行。一周之内就沉淀出百万量级的真实执行数据。</p><div class=why>这说明通用型 AI 助手已经在大量承担“提醒、记录、统计、整理”这类事务性工作，这类功能会迅速变成免费标配。你要把力气放在 AI 判断不了的地方：动作做得对不对、身体反馈是否正常、什么时候该减量，这些才是需要专业经验的部分。</div><div class=teach>星空小知识 · <b>托管事务</b>：不只是让 AI 给建议，而是把整件事交给它去执行，比如自动改期、自动填表、自动跟进，做完再给你结果。</div><div class=insight><b>洞察</b> 大多数人把 Agent 理解为“更聪明的聊天框”，但托管事务的量级说明竞争点已经变成“能不能可靠地把事做完”。可靠性的背后是权限、可回溯和出错兜底，这三样在未来一年会成为 AI 产品真正的分水岭。</div><div class=chips><a class='chip acc' href='https://finance.sina.com.cn/tech/shenji/2026-11-05/doc-inixryue9568010.shtml'>新浪科技</a></div></div><div class=card><h3>天数智芯天垓300真机实测：性能赶超国际主流GPU，超节点有效Token成本直降40%</h3><p>新浪科技报道，天数智芯天垓 300 完成真机实测，性能赶超国际主流 GPU，采用超节点方案后有效 Token 成本直降 40%。这是国产算力在推理侧的一次公开对比测试。测试重点是集群整体的有效吞吐，而不只是单卡跑分。</p><div class=why>这说明推理算力正在快速变便宜，实时动作识别、姿态比对这类重计算能力会在一年内进入可商用区间。你现在最该做的是攒数据：把标准动作的正面、侧面、常见错误姿势拍成结构化素材，等能力便宜了直接训练，而不是等工具成熟了再补素材。</div><div class=teach>星空小知识 · <b>超节点</b>：把成百上千张加速卡用高速网络连成一台“超级电脑”来用，减少卡与卡之间的等待，整体效率比单卡堆叠高很多。</div><div class=insight><b>洞察</b> 主流把国产芯片的叙事锁定在“替代”，但超节点这类集群思路说明，追赶路径可能不是单卡追平，而是用系统架构换单点差距。如果这条路走通，算力的竞争会从“谁的芯片强”变成“谁的网络和调度强”。</div><div class=chips><a class='chip acc' href='https://finance.sina.com.cn/tech/it/2026-11-04/doc-inixqsyn9272244.shtml'>新浪科技</a></div></div><div class=card><h3>闲鱼CEO谌伟业：Agent创造新模式新体验，150万用户获得持续稳定收入</h3><p>闲鱼 CEO 谌伟业表示，Agent 创造了新的模式和新的体验，平台上有 150 万用户获得了持续稳定收入。这一数字把 AI 代理能力与个体创收直接挂钩。平台侧的表述强调“新体验”，而非单纯的效率工具。</p><div class=why>这说明“一技之长加 AI 代运营”已经能在平台上换成稳定现金流，门槛不在技术而在交付标准。你可以把功法教学拆成可单次交付的小服务——纠正一个动作、点评一次练习记录、给一份三天的调整建议——挂到有 Agent 撮合能力的平台上试水，比先做完整课程更快验证需求。</div><div class=teach>星空小知识 · <b>Agent（智能体）</b>：能自己拆解任务、调用工具、一步步把事做完的 AI，不只是回答问题，还会主动去执行和跟进。</div><div class=insight><b>洞察</b> “AI 让人失业”是最流行的说法，但平台数据指向相反方向：AI 降低的是服务交付的门槛，让原本只能靠机构提供的专业服务，变成个人可以接单的小颗粒商品。长期看，被挤压的不是个体，而是中间层的中介机构。</div><div class=chips><a class='chip acc' href='https://finance.sina.com.cn/tech/it/2026-11-04/doc-inixqsyv0040255.shtml'>新浪科技</a></div></div><div class=card><h3>Sand.ai宣布完成2亿美元A+轮融资，10个月累计融资3亿美元</h3><p>Sand.ai 宣布完成 2 亿美元 A+ 轮融资，这是公司 2026 年内完成的第三轮融资。10 个月内累计融资额达到 3 亿美元，本轮融资后正式跻身独角兽行列。融资节奏在当下的资本环境中相当少见。</p><div class=why>这说明视频生成赛道的钱还在密集下注，资本押注的不是“能生成视频”，而是“生成的结果能直接用于商业交付”，也就是一致性和可控性。你可以先不等工具成熟：用手工拍摄为主、AI 只做补帧和背景替换，保住内容的真实质感，等可控性上来了再扩大使用比例。</div><div class=teach>星空小知识 · <b>独角兽</b>：估值超过 10 亿美元的未上市公司，通常是投资圈的通俗说法，并不代表公司已经盈利或上市。</div><div class=insight><b>洞察</b> 外界普遍认为 AI 视频的创业窗口已经关闭，但十个月三轮融资说明离“能用”还有明显距离，否则不需要这么多钱。真正的护城河不在模型，而在谁能定义“合格交付”的标准——分辨率、时长、还是叙事连贯性。</div><div class=chips><a class='chip acc' href='https://wallstreetcn.com/livenews/3194682'>华尔街见闻</a></div></div><div class=card><h3>Arm季度营收展望符合预期，数据中心业务助其抵御智能手机市场低迷</h3><p>Arm 给出的季度营收展望符合市场预期，数据中心业务帮助它抵御了智能手机市场的低迷。Arm 的商业模式是授权芯片架构，收入与客户芯片出货量挂钩。数据中心需求成为这一季度的重要支撑项。</p><div class=why>这说明算力扩张的重心已经从手机转向服务器，连只做架构授权的上游公司都在被 AI 服务器重新定价。你可以在产品设计上默认“联网加云端推理是常态”，把需要重算力的功能放在服务端，而不是逼着用户在手机上跑。</div><div class=teach>星空小知识 · <b>IP授权</b>：公司不自己造芯片，而是把设计方案的使用权卖给芯片厂商，按出货量收授权费，属于“卖图纸”的生意。</div><div class=insight><b>洞察</b> 大家习惯性认为消费电子决定芯片公司的命运，但这一季的数据说明服务器侧的需求已经能对冲手机的下滑。长期看，芯片产业的景气周期会和“数据中心建设周期”绑得越来越紧，而不是和换机潮绑在一起。</div><div class=chips><a class='chip acc' href='https://finance.sina.com.cn/stock/usstock/c/2026-11-05/doc-inixrqea8945717.shtml'>新浪科技</a></div></div><div class=card><h3>国行苹果AI首批接入得物，11月4日开放测试</h3><p>国行苹果 AI 首批接入得物，于 11 月 4 日开放测试。这意味着 Apple Intelligence 在国内以与具体 App 合作的方式落地。系统级 AI 直接调用第三方应用的能力，成为这次测试的核心看点。</p><div class=why>这说明未来用户可能不再“打开某个 App”，而是直接对手机说一句话让系统去调。你要提前把核心内容做成可被系统读取的结构化数据——动作名称、标准时长、要点、禁忌——而不只是做给人看的页面，否则在系统级入口里根本没有你的位置。</div><div class=teach>星空小知识 · <b>系统级AI</b>：手机操作系统自带的 AI，能直接调用各个 App 的功能来完成任务，用户不用自己一个个打开应用。</div><div class=insight><b>洞察</b> 大家把 AI 手机当作硬件升级，但真正的变化是入口迁移：从图标和搜索框，迁移到一句话指令。一旦入口变了，过去十年靠 App 图标和推送建立的用户习惯会大面积失效，受益的是内容结构化做得早的人。</div><div class=chips><a class='chip acc' href='https://finance.sina.com.cn/tech/it/2026-11-04/doc-inixqnsq9346336.shtml'>新浪科技</a></div></div><div class=card><h3>字节新规限制员工使用外部AI，知情人士回应</h3><p>新浪科技报道，字节跳动出台新规限制员工使用外部 AI 工具，知情人士对此作出回应。此前已有多家大型互联网公司对内外部 AI 工具的使用划出明确边界。争议焦点集中在内部数据是否会经由外部工具外流。</p><div class=why>这说明“数据不出域”正在从合规要求变成采购硬门槛，企业宁可牺牲一点效率也不愿冒数据外流的风险。你做内容时如果会接触用户的练习记录、身体反馈这类数据，提前把存储位置、使用范围、删除方式写清楚，将来和机构谈合作时这就是现成的加分项。</div><div class=teach>星空小知识 · <b>数据不出域</b>：数据始终留在自己控制的服务器范围内，不会被传到第三方那里去处理，是企业和机构采购 AI 时最看重的条件之一。</div><div class=insight><b>洞察</b> 外界默认 AI 工具会越来越开放，但大厂的动作说明相反：模型能力越强，数据边界划得越死。长期看，AI 行业会分裂成“公网版”和“私有部署版”两个市场，后者更贵、更慢，但更稳。</div><div class=chips><a class='chip acc' href='https://finance.sina.com.cn/chanjing/gsnews/2026-11-04/doc-inixqxhk9235629.shtml'>新浪科技</a></div></div><div class=card><h3>Meta启动欧元债券首次发行，此前发行美元债筹集150亿美元</h3><p>Meta 启动欧元债券的首次发行，此前已通过美元债券筹集 150 亿美元。公司称募集资金用于一般公司用途。市场普遍将其与数据中心和 AI 基础设施的巨额投入联系起来。</p><div class=why>这说明连现金流最强的公司都在靠发债支撑 AI 基建，算力供给在未来两三年会持续过剩。你可以把“AI 能力越来越便宜、越来越普及”当作产品设计的前提，把成本和精力都放在内容质量与人的关系上，而不是押注某项 AI 功能带来的先发优势。</div><div class=teach>星空小知识 · <b>资本开支（CapEx）</b>：企业花在买设备、建机房、铺网络这类长期资产上的钱，一次投入大、回本周期长，和日常运营开销不是一回事。</div><div class=insight><b>洞察</b> 主流叙事是“AI 投入靠巨头自有现金流撑着”，但债券市场的动作说明这一轮资本开支已经超出经营现金流能覆盖的节奏。用债务堆出来的算力，最终要用收入来还，这会逼着所有玩家在未来两年把 AI 从“炫技”变成“收费”。</div><div class=chips><a class='chip acc' href='https://finance.sina.com.cn/stock/usstock/c/2026-11-04/doc-inixqhks9393709.shtml'>新浪科技</a></div></div><div class=card><h3>李斌乌镇演讲：AI应该让人的工作更轻松更安全，而不是剥夺人类存在的意义</h3><p>蔚来李斌在乌镇峰会上表示，AI 应该让人的工作更轻松、更安全，而不是剥夺人类存在的意义。同日他还谈到，智能驾驶最大的意义不应是让出租车、网约车司机丢掉工作，而是解放司机精力、减少交通事故。这番表态把技术价值从效率转向了人的处境。</p><div class=why>这说明“技术为人服务”正在成为企业公开表达的主流话语，纯效率叙事已经遇到明显的舆论反弹。你做传统文化内容时，把“练完之后身体感受如何、睡得怎么样”作为核心衡量指标来讲，会比强调功能、强调 AI 加持更贴合当下用户的心理预期。</div><div class=teach>星空小知识 · <b>智能驾驶</b>：车辆自己完成一部分或全部驾驶操作，按自动化程度分级，级别越高需要人接管的次数越少，但责任划分也越复杂。</div><div class=insight><b>洞察</b> 过去十年科技行业的默认叙事是“更快更省人”，企业家如今公开谈“意义”，说明市场教育已经撞上反弹。长期看，能卖出溢价的产品会从“帮你省时间”转向“帮你确认自己在做什么”，这对慢生意是利好。</div><div class=chips><a class='chip acc' href='https://finance.sina.com.cn/tech/it/2026-11-04/doc-inixqnss6118846.shtml'>新浪科技</a></div></div><h2>开源项目 · 10</h2><div class=card><div class=repo><div><div class=n><a href='https://github.com/Renhuai123/ziwei-doushu'>Renhuai123/ziwei-doushu</a></div><div class=d>紫微斗数开源排盘引擎，基于倪海厦《天纪》体系，含完整排盘算法、四化系统、格局知识库与古籍原文数据。</div></div><div class=s>★ 15820</div></div><div class=repo><div><div class=n><a href='https://github.com/SylarLong/iztro'>SylarLong/iztro</a></div><div class=d>轻量级紫微斗数排盘工具库，供开发者在自己的项目里直接调用。</div></div><div class=s>★ 4346</div></div><div class=repo><div><div class=n><a href='https://github.com/jangviktor-web/nihaixia'>jangviktor-web/nihaixia</a></div><div class=d>倪海厦视角的中医 Agent Skill，基于其教学资料蒸馏伤寒论、金匮要略、黄帝内经、神农本草经、针灸篇等，含六经辨证、八纲辨证等思维框架。</div></div><div class=s>★ 3995</div></div><div class=repo><div><div class=n><a href='https://github.com/jinchenma94/bazi-skill'>jinchenma94/bazi-skill</a></div><div class=d>四柱八字命理分析的 AI Skill 实现，用 Python 写成。</div></div><div class=s>★ 3800</div></div><div class=repo><div><div class=n><a href='https://github.com/DestinyLinker/MingLi-Bench'>DestinyLinker/MingLi-Bench</a></div><div class=d>评估大模型在中国传统命理（八字、紫微）上表现的基准测试集。</div></div><div class=s>★ 2552</div></div><div class=repo><div><div class=n><a href='https://github.com/6tail/lunar-javascript'>6tail/lunar-javascript</a></div><div class=d>日历与历法工具库，支持公历、农历、佛历、道历，以及节气、干支、生肖、每日宜忌等。</div></div><div class=s>★ 1736</div></div><div class=repo><div><div class=n><a href='https://github.com/FANzR-arch/Numerologist_skills'>FANzR-arch/Numerologist_skills</a></div><div class=d>用工程框架约束大模型在中国命理领域幻觉的项目，作者自述是“给赛博半仙戴上紧箍咒”。</div></div><div class=s>★ 1567</div></div></div><div class=card><div class=repo><div class=n style='color:#c9a86a'>热门 · 不限分类</div></div><div class=repo><div><div class=n><a href='https://github.com/cirosantilli/x86-bare-metal-examples'>cirosantilli/x86-bare-metal-examples</a></div><div class=d>几十个最小可运行的操作系统示例，用来学习 x86 系统编程，每个例子都尽量精简可跑。</div></div><div class=s>★ 5434</div></div><div class=repo><div><div class=n><a href='https://github.com/gege-circle/.github'>gege-circle/.github</a></div><div class=d>一个以仓库为载体的多话题交流社区，讨论动漫、游戏、科技、人文、生活等。</div></div><div class=s>★ 2079</div></div><div class=repo><div><div class=n><a href='https://github.com/OCNYang/QBox'>OCNYang/QBox</a></div><div class=d>一个整合新闻、笑话、生活小工具的多模块 Android 示例应用，展示 RxJava、Retrofit、Glide 等技术的组合用法。</div></div><div class=s>★ 1383</div></div></div><div class=foot>洞见星空 · 仅供学习交流，不构成投资建议</div></div></body></html>
